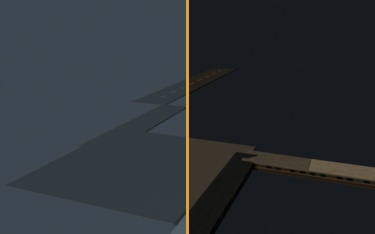
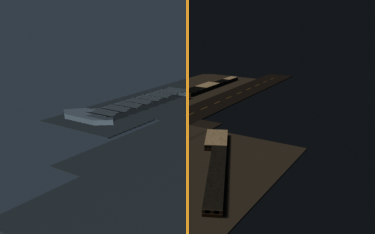
feat(assets): shade and promote canopy-bearing Memphis environment
Record the owner's in-session Assembly and Materials gate decisions
(approval-002 pair), re-shade the west-frontage assembly with the matte
off-white canopy material and terminal-apron ramp material under the
unchanged owner-ruled restrained grade, promote the production master and
deployable GLB (27 objects / 17 meshes / 676 triangles / 6 materials),
and bump the Memphis model cache version to 4732f1dc.

Claude-Session: https://claude.ai/code/session_01DJ5RwLHuEnFJVJXmVyoZtU

diff --git a/src/scenes/cockpitModelLoader.ts b/src/scenes/cockpitModelLoader.ts
@@ -3,7 +3,7 @@ import * as THREE from 'three'
 
 export const AIRBUS_MODEL_URL = `${import.meta.env.BASE_URL}models/airbus-captain.glb?v=storm-flight-0a6c8aeb`
 export const DC9_MODEL_URL = `${import.meta.env.BASE_URL}models/dc9-cockpit.glb?v=dc9-golden-key-v8-20260715`
-export const DC9_MEMPHIS_MODEL_URL = `${import.meta.env.BASE_URL}models/dc9-memphis-legacy-departure.glb?v=73b80e6f`
+export const DC9_MEMPHIS_MODEL_URL = `${import.meta.env.BASE_URL}models/dc9-memphis-legacy-departure.glb?v=4732f1dc`
 export const LOCKER_MODEL_URL = `${import.meta.env.BASE_URL}models/locker-room.glb?v=locker-shelf-0ab00624`
 
 export interface CockpitModelProgress {

diff --git a/tools/blender/shade_dc9_memphis_legacy.py b/tools/blender/shade_dc9_memphis_legacy.py
@@ -32,24 +32,30 @@ SHADING_MANIFEST_PATH = REPO_ROOT / "art-source/cockpit-pipeline/jobs/dc9-memphi
 CREATED_AT = "2026-08-28T00:00:00Z"
 
 EXPECTED_APPROVAL = {
-    "approvalId": "dc9-memphis-legacy-assembly-approval-001",
+    "approvalId": "dc9-memphis-legacy-assembly-approval-002",
     "jobId": "dc9-memphis-legacy-assembly",
     "sourceJobId": "dc9-memphis-legacy-source",
     "stage": "assembly-approved",
     "approved": True,
-    "approvedBy": "owner review 2026-08-28",
+    "approvedBy": "owner review 2026-08-28 (canopy-bearing windshield and 36 mm previews reviewed in session)",
     "assemblyManifest": "art-source/cockpit-pipeline/jobs/dc9-memphis-legacy-assembly/manifests/assembly-complete.json",
[2 lines of base64/hex data omitted]
 }
 EXPECTED_APPROVED_ARTIFACTS = {
[21 lines of base64/hex data omitted]
 }
 SOURCE_HASHES = {
[1 lines of base64/hex data omitted]
@@ -86,8 +92,10 @@ REVIEW_LIGHTING_GRADE = {
     "fillEnergy": 1350,
     "fillColor": (0.45, 0.58, 0.78),
 }
[2 lines of base64/hex data omitted]
+# 2026-08-28 terminal-composition re-shading: same owner-ruled restrained grade,
+# regenerated over the approved west-frontage assembly with the canopy accent.
[2 lines of base64/hex data omitted]
 
 
 def sha256_file(path: Path) -> str:
@@ -717,7 +725,7 @@ def validate_shaded_master(bpy: Any) -> dict[str, Any]:
 
     triangle_count = sum(record["triangleCount"] for record in current_contract.values())
     mesh_count = sum(1 for record in current_contract.values() if record["type"] == "MESH")
-    if len(current_contract) != 25 or mesh_count != 15 or triangle_count != 376 or len(material_names) != 5:
+    if len(current_contract) != 27 or mesh_count != 17 or triangle_count != 676 or len(material_names) != 6:
         failures.append(f"structural metrics changed: objects={len(current_contract)}, meshes={mesh_count}, triangles={triangle_count}, materials={len(material_names)}")
     for name, game_id in ANCHOR_GAME_IDS.items():
         if current_contract.get(name, {}).get("extras", {}).get("game_id") != game_id:
@@ -777,8 +785,8 @@ def main() -> int:
     if approved_hashes(approval) != before_approved_hashes:
         raise ValueError("approved Task 7 inputs changed during shading")
     validation = reimport_validation(bpy, glb_path, neutral_contract)
-    if validation["triangleCount"] != 376:
-        raise ValueError(f"approved triangle count changed: {validation['triangleCount']} != 376")
+    if validation["triangleCount"] != 676:
+        raise ValueError(f"approved triangle count changed: {validation['triangleCount']} != 676")
 
     material_report_path = OUTPUT_DIR / "material-assignment-report.json"
     stable_json(material_report_path, {

diff --git a/tools/blender/assemble_dc9_memphis_legacy.py b/tools/blender/assemble_dc9_memphis_legacy.py
@@ -334,8 +334,15 @@ def build_scene(metadata: dict[str, Any], output_dir: Path) -> dict[str, Any]:
     # Windshield-pose previews from the measured first-officer camera rig, so the
     # Assembly Review Gate always shows what the in-game windshield will show.
     # The 2026-08-28 Task 10 stall happened because the review camera alone could
-    # not reveal that the terminal sat behind the ramp-start view.
-    camera_data.sensor_fit = "VERTICAL"
+    # not reveal that the terminal sat behind the ramp-start view. A dedicated
+    # camera keeps the approved 36 mm review camera untouched for Agent 3.
+    windshield_camera_data = bpy.data.cameras.new("CAM_KMEM_WINDSHIELD_PREVIEW")
+    windshield_camera = bpy.data.objects.new("CAM_KMEM_WINDSHIELD_PREVIEW", windshield_camera_data)
+    bpy.context.collection.objects.link(windshield_camera)
+    windshield_camera_data.sensor_fit = "VERTICAL"
+    windshield_camera_data.clip_start = 0.1
+    windshield_camera_data.clip_end = 3000.0
+    scene.camera = windshield_camera
     for label, progress, sizes in (
         ("windshield-ramp-start", 0.0, ((1440, 900, 64.0), (768, 900, 76.0), (375, 812, 76.0))),
         ("windshield-hold-short", 0.42, ((1440, 900, 64.0),)),
@@ -346,13 +353,13 @@ def build_scene(metadata: dict[str, Any], output_dir: Path) -> dict[str, Any]:
         forward = Vector(pose["forward"]).normalized()
         up = Vector(pose["up"]).normalized()
         right = forward.cross(up).normalized()
-        camera.matrix_world = Matrix.Translation(Vector(pose["position"])) @ Matrix((
+        windshield_camera.matrix_world = Matrix.Translation(Vector(pose["position"])) @ Matrix((
             (right.x, up.x, -forward.x),
             (right.y, up.y, -forward.y),
             (right.z, up.z, -forward.z),
         )).to_4x4()
         for width, height, vertical_fov in sizes:
-            camera_data.angle_y = math.radians(vertical_fov)
+            windshield_camera_data.angle_y = math.radians(vertical_fov)
             scene.render.resolution_x = width
             scene.render.resolution_y = height
             scene.render.resolution_percentage = 100
@@ -361,6 +368,7 @@ def build_scene(metadata: dict[str, Any], output_dir: Path) -> dict[str, Any]:
             bpy.ops.render.render(write_still=True)
             preview_paths.append(preview)
 
+    scene.camera = camera
     blend_path = output_dir / "dc9-memphis-legacy-neutral.blend"
     glb_path = output_dir / "dc9-memphis-legacy-neutral.glb"
     bpy.ops.wm.save_as_mainfile(filepath=str(blend_path))
